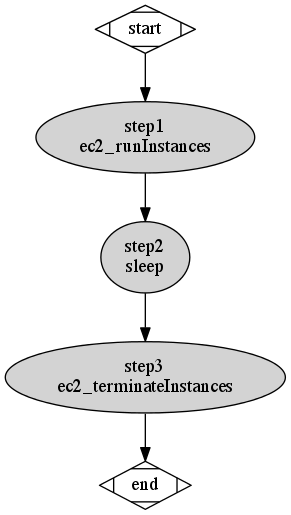
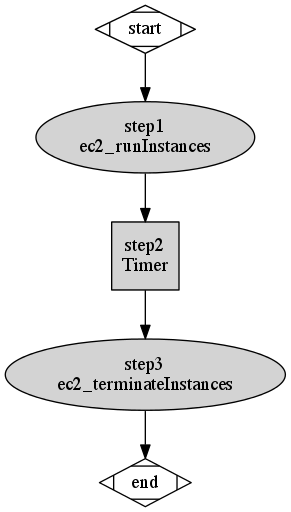
Support for StartTimer

diff --git a/lib/decision-task.js b/lib/decision-task.js
@@ -189,6 +189,37 @@ DecisionTask.prototype = {
     },
 
 
+
+    start_timer: function(startAttributes, swfAttributes) {
+
+        // If schedule conditions are not met
+        if(!this.check_conditions(startAttributes)) {
+            return;
+        }
+
+        var sa = swfAttributes || {};
+
+        // control
+        sa.control = startAttributes.name;
+
+        if(startAttributes.delay) {
+            sa.startToFireTimeout = String(startAttributes.delay);
+        }
+        if(!sa.startToFireTimeout) {
+            sa.startToFireTimeout = "1";
+        }
+
+        if(!sa.timerId) {
+            sa.timerId = String(Math.random()).substr(2);
+        }
+
+        this.addDecision({
+            "decisionType": "StartTimer",
+            "startTimerDecisionAttributes": sa
+        });
+    },
+
+
     /*********************************************
      * Methods to query the state of the workflow
      ********************************************/
@@ -216,25 +247,44 @@ DecisionTask.prototype = {
         return false;
     },
 
+    // Return true if the timer already started
+    timer_scheduled: function(control) {
+        return this.config.events.some(function (evt) {
+            if (evt.eventType === "TimerStarted") {
+                if (evt.timerStartedEventAttributes.control === control) {
+                    return true;
+                }
+            }
+        });
+    },
 
+    // return true if the timer has fired
+    timer_fired: function(control) {
+        return this.config.events.some(function (evt) {
+            if (evt.eventType === "TimerFired") {
+                var initiatedEventId = evt.timerFiredEventAttributes.startedEventId;
+                var initiatedEvent = this.eventById(initiatedEventId);
+
+                if (initiatedEvent.timerStartedEventAttributes.control === control) {
+                    return true;
+                }
+            }
+        }, this);
+    },
+
+    // lookup for StartChildWorkflowExecutionInitiated
     childworkflow_scheduled: function(control) {
-        // lookup for StartChildWorkflowExecutionInitiated
-
-        var hasInitiatedEvt = this.config.events.some(function (evt) {
+        return this.config.events.some(function (evt) {
             if (evt.eventType === "StartChildWorkflowExecutionInitiated") {
                 if (evt.startChildWorkflowExecutionInitiatedEventAttributes.control === control) {
                     return true;
                 }
             }
         });
-
-        console.log("childworkflow_scheduled", hasInitiatedEvt);
-
-        return hasInitiatedEvt;
     },
 
     childworkflow_completed: function(control) {
-        var hasTerminatedEvt = this.config.events.some(function (evt) {
+        return this.config.events.some(function (evt) {
             if (evt.eventType === "ChildWorkflowExecutionCompleted") {
                 var initiatedEventId = evt.childWorkflowExecutionCompletedEventAttributes.initiatedEventId;
                 var initiatedEvent = this.eventById(initiatedEventId);
@@ -244,10 +294,6 @@ DecisionTask.prototype = {
                 }
             }
         }, this);
-
-        console.log("childworkflow_completed", hasTerminatedEvt);
-
-        return hasTerminatedEvt;
     },
 
 
@@ -329,7 +375,7 @@ DecisionTask.prototype = {
     completed: function () {
         var i;
         for (i = 0; i < arguments.length; i++) {
-            if ( ! (this.has_activity_completed(arguments[i]) || this.childworkflow_completed(arguments[i]) ) ) {
+            if ( ! (this.has_activity_completed(arguments[i]) || this.childworkflow_completed(arguments[i])  || this.timer_fired(arguments[i]) ) ) {
                 return false;
             }
         }
@@ -449,6 +495,11 @@ DecisionTask.prototype = {
 
         // If workflow has already been scheduled...
         if( deciderParams.name && this.childworkflow_scheduled(deciderParams.name) ) {
+            return false;
+        }
+
+        // If timer has already been started...
+        if( deciderParams.name && this.timer_scheduled(deciderParams.name) ) {
             return false;
         }
 

diff --git a/cli/swf-decider-graph.js b/cli/swf-decider-graph.js
@@ -32,7 +32,18 @@ function addEdgeConditions(conditions, n) {
    after_modules.forEach(function(m) {
       g.addEdge( nodes[m], n);
    });
-};
+}
+
+function addNode(params, n) {
+   nodes[params.name] = n;
+
+   if (params.after && ( !Array.isArray(params.after) || params.after.length > 0 ) ) {
+      addEdgeConditions(params.after, n);
+   }
+   else {
+      addEdgeConditions(["start"], n);
+   }
+}
 
 var sandbox = {
    COMPLETED: 1,
@@ -43,14 +54,8 @@ var sandbox = {
       
       var n = g.addNode( scheduleParams.name+"\\n"+scheduleParams.activity);
       n.set( "style", "filled" );
-      nodes[scheduleParams.name] = n;
 
-      if (scheduleParams.after && ( !Array.isArray(scheduleParams.after) || scheduleParams.after.length > 0 ) ) {
-         addEdgeConditions(scheduleParams.after, n);
-      }
-      else {
-         addEdgeConditions(["start"], n);
-      }
+      addNode(scheduleParams, n);
    },
 
    start_childworkflow: function (scheduleParams, swfParams) {
@@ -58,14 +63,17 @@ var sandbox = {
       var n = g.addNode( scheduleParams.name+"\\n"+scheduleParams.workflow);
       n.set( "style", "filled" );
       n.set( "shape", "Msquare" );
-      nodes[scheduleParams.name] = n;
+      
+      addNode(scheduleParams, n);
+   },
 
-      if (scheduleParams.after && ( !Array.isArray(scheduleParams.after) || scheduleParams.after.length > 0 ) ) {
-         addEdgeConditions(scheduleParams.after, n);
-      }
-      else {
-         addEdgeConditions(["start"], n);
-      }
+   start_timer: function (scheduleParams, swfParams) {
+      
+      var n = g.addNode( scheduleParams.name+"\\nTimer");
+      n.set( "style", "filled" );
+      n.set( "shape", "square" );
+
+      addNode(scheduleParams, n);
    },
 
    stop: function (stopParams, swfParams) {

diff --git a/examples/ec2-demo/ec2-demo.js b/examples/ec2-demo/ec2-demo.js
@@ -17,16 +17,11 @@ schedule({
 });
 
 
-// Sleep 10s
-schedule({
+// Use a SWF Timer
+start_timer({
    name: 'step2',
-   activity: 'sleep',
-   after: {
-      step1: COMPLETED
-   },
-   input: {
-      delay: 30000
-   }
+   delay: 60,
+   after: 'step1'
 });
 
 
@@ -34,9 +29,7 @@ schedule({
 schedule({
    name: 'step3',
    activity: 'ec2_terminateInstances',
-   after: {
-      step2: COMPLETED
-   },
+   after: 'step2',
    input: function() {
       var instanceId = results('step1').instancesSet.item.instanceId;
       return { InstanceIds: [instanceId] };

diff --git a/TODO.md b/TODO.md
@@ -1,6 +1,6 @@
 ## TODO
 
-* support SWF signals (timers ?)
+* support SWF signals
 
 * use nextPageToken to get the full list of events if greater than 100
 
@@ -27,6 +27,8 @@
 ## Documentation
 
 * DecisionTask API
+
+* swf-decider-graph
 
 * Document that Child workflows use "control" as step name
 

diff --git a/activities/sleep/README.md b/activities/sleep/README.md
@@ -1,0 +1,3 @@
+# Sleep activity
+
+IMPORTANT: this is just a demo activity. It should NOT be used. Use 'start_timer' instead.
